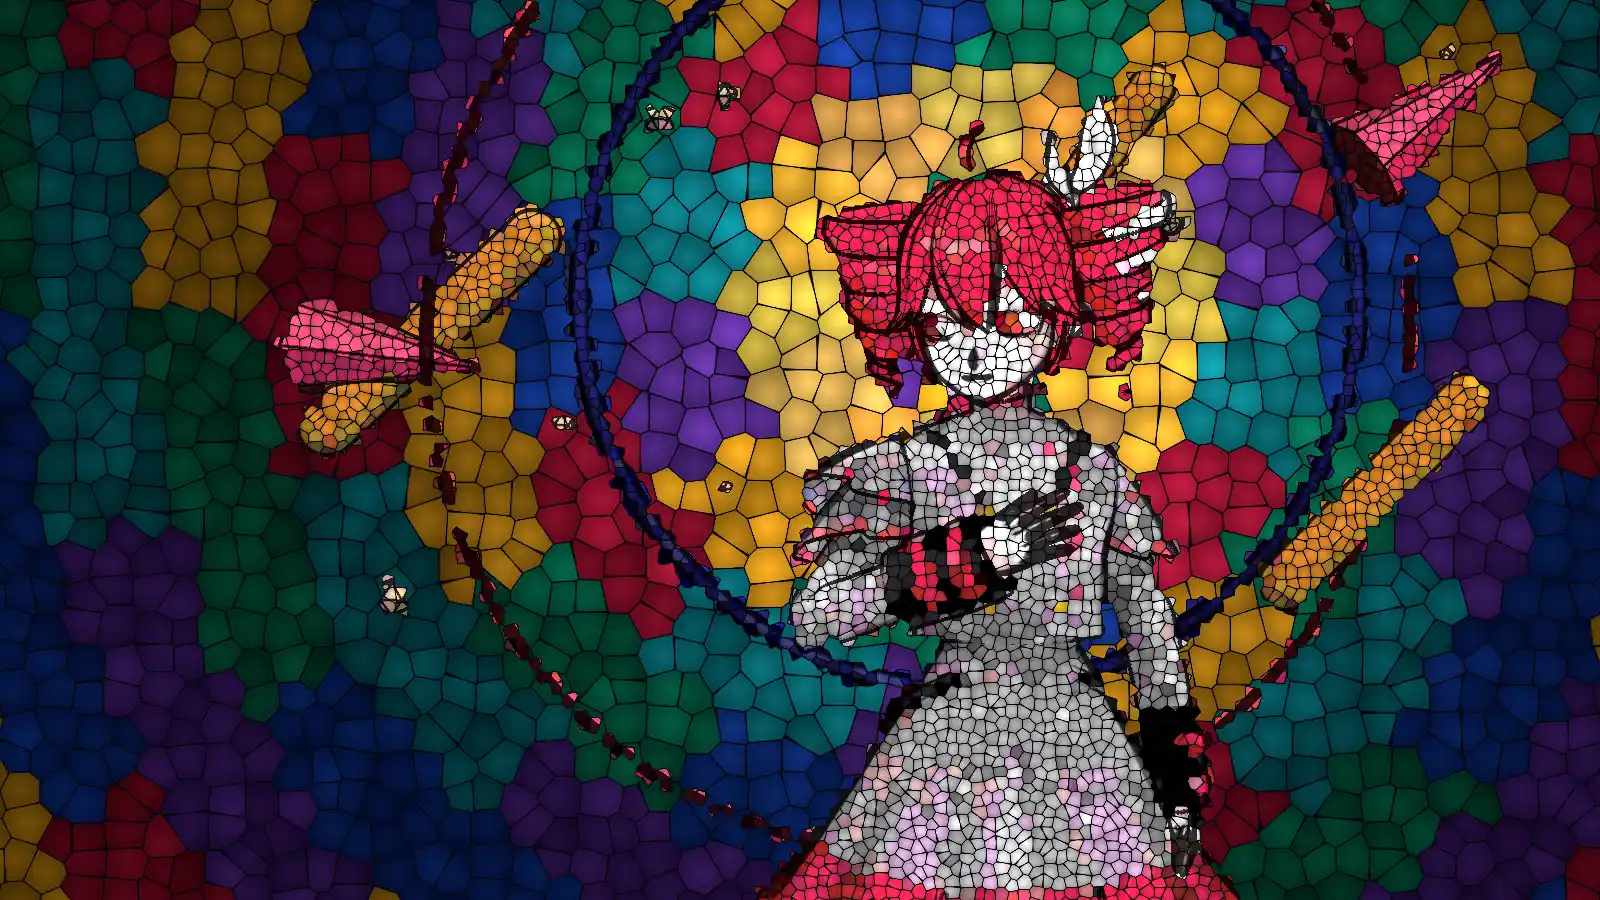
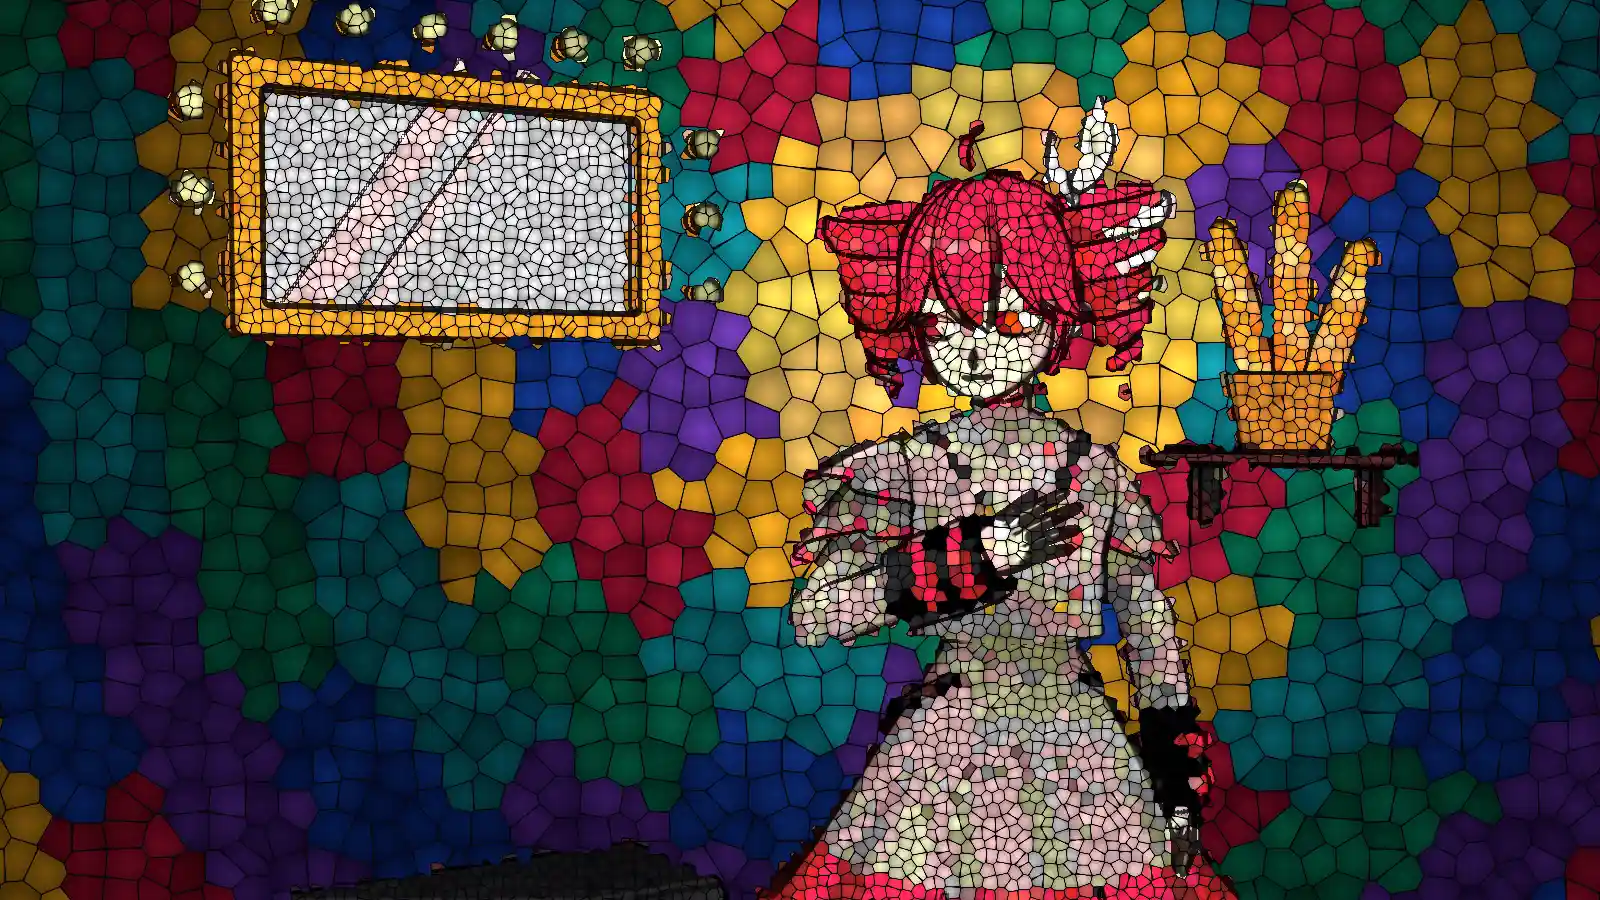
Программка на телефоне, афиши с новой сценой, состояние в плане

diff --git a/src/pages/programme.css b/src/pages/programme.css
@@ -635,7 +635,10 @@
 @media (max-width: 760px) {
   .head {
     grid-template-columns: minmax(0, 1fr);
-    min-height: min(82svh, 44rem);
+    min-height: 0;
+    /* Обложка стоит поверх шапки; оглавление начинается под её цветной частью,
+       чтобы строки не ложились на витраж. Высота обложки — ширина × 5/4. */
+    padding-top: calc(var(--pad) * 0.8 + 3.4rem + min(78vw, 24rem) * 0.98);
   }
   .cover {
     right: 50%;

diff --git a/PLAN.md b/PLAN.md
@@ -1,7 +1,32 @@
 # KIMERA — план развития
 
-Версия от 2026-11-23. Замысел согласован. Волна 0 (фундамент) сделана,
-дальше — волна 1. Из остального построено только то, что помечено «есть».
+Версия от 2026-11-23. Замысел согласован. Волна 0 (фундамент) сделана, волна 1
+идёт. Работа ведётся в одиночку, без параллельных агентов: автор сайта остановил
+их из-за расхода. Разбивка на дорожки ниже осталась как список работ.
+
+## Где мы сейчас
+
+Сделано из волны 1:
+
+- **Сцена (A1, A7 частично).** Поворотный круг позади Тето, три клина со стенами от
+  центра, свет с настроением по главам, настоящая тень от ключевого света.
+  Нет: отражения в зеркале, лучей из окна, свечения ламп.
+- **Декорации, первая версия (A4–A6).** Гримёрка, мастерская витражиста, стол
+  художника — по три-пять предметов в каждой, собраны из `src/model/`. До планки
+  «10–15 предметов» далеко; багеты и зеркало простые.
+- **Живая Тето (D1–D3).** Жесты от скуки, стук в стекло, память о посетителе, ветер.
+  Каждый жест проверен одним кадром в высшей точке, вблизи руки не разглядывались.
+- **Набросок втрое быстрее.** Шум считается заранее в текстуры (`skins/sketch-prep.ts`).
+- **Программка (F3)** и афиши для браузеров без графики.
+
+Начато и лежит неподключённым:
+
+- `src/content/` — все факты на двух языках и переводы; интерфейса этикеток нет.
+- `src/model/` — геометрия (тела вращения, протяжка, пластины, коробки с фасками);
+  материалов с фактурами, запекания затенения и страницы «Реквизиторская» нет.
+
+Не начато: ластик, следы и частицы (C10, C11, E5); заставка-рисунок, страница 404
+(пока пустая) и подключение афиш к заглушке (F4); ссылка на программку с главной.
 
 ## 1. Что не так сейчас
 
@@ -243,12 +268,13 @@ npm run perf                         # время кадра в 1920×1080 на 
 
 | Глава | WebGPU | WebGL 2 |
 |---|---|---|
-| Default | 9.6 мс | 22.8 мс |
-| Mosaic | 13.2 мс | 36.7 мс |
-| Sketch | 40.0 мс | 150.1 мс |
+| Default | 11.8 мс | 15.2 мс |
+| Mosaic | 12.1 мс | 15.1 мс |
+| Sketch | 12.1 мс | 14.4 мс |
 
-Набросок — узкое место, его ускорение входит в дорожку 4. WebGL 2 медленнее в 2.5–4 раза
-по всем главам; причина не выяснена.
+Это уже со сценой и тенями. До ускорения набросок стоил 43 мс на WebGPU и 176 мс
+на WebGL 2. Замеры шумят: сразу после другой нагрузки на видеокарту числа бывают
+вдвое выше, поэтому замер повторяют.
 
 **Волна 0 — фундамент — сделана.** E1–E4 и git. Картинка после неё совпала с прежней
 пиксель в пиксель на обоих рендерах (14 кадров), добавился кадр со слоем меток.
